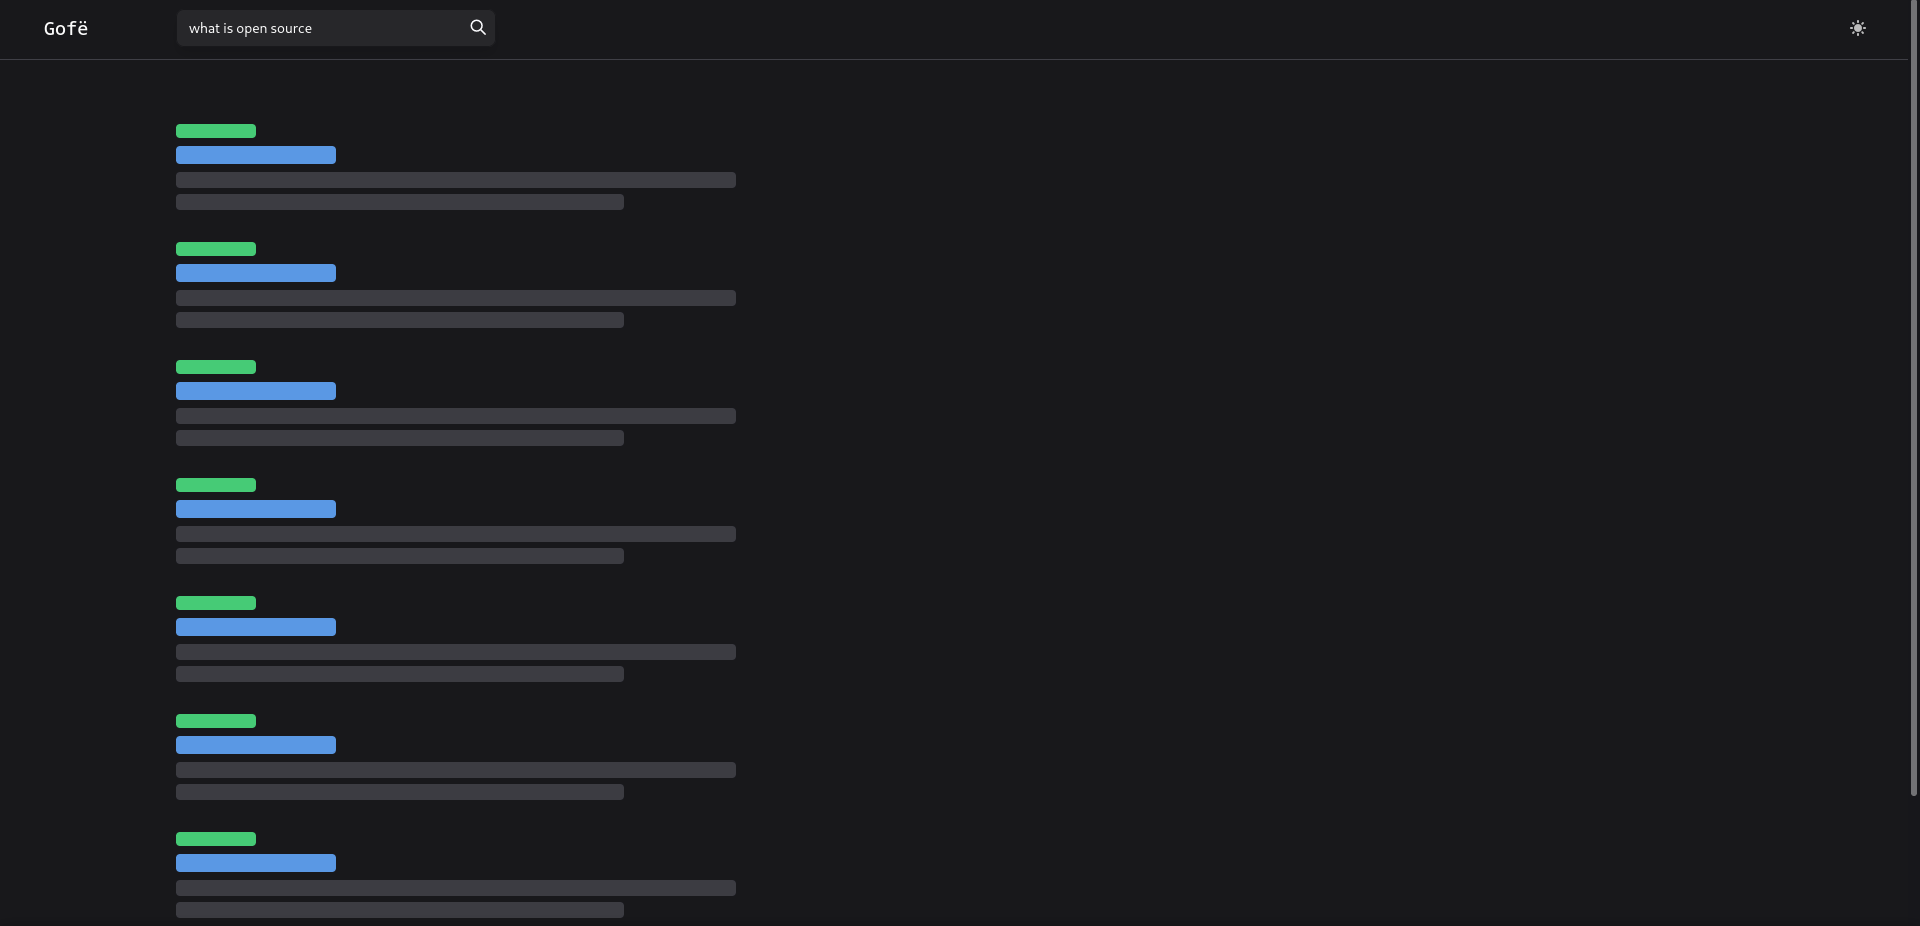
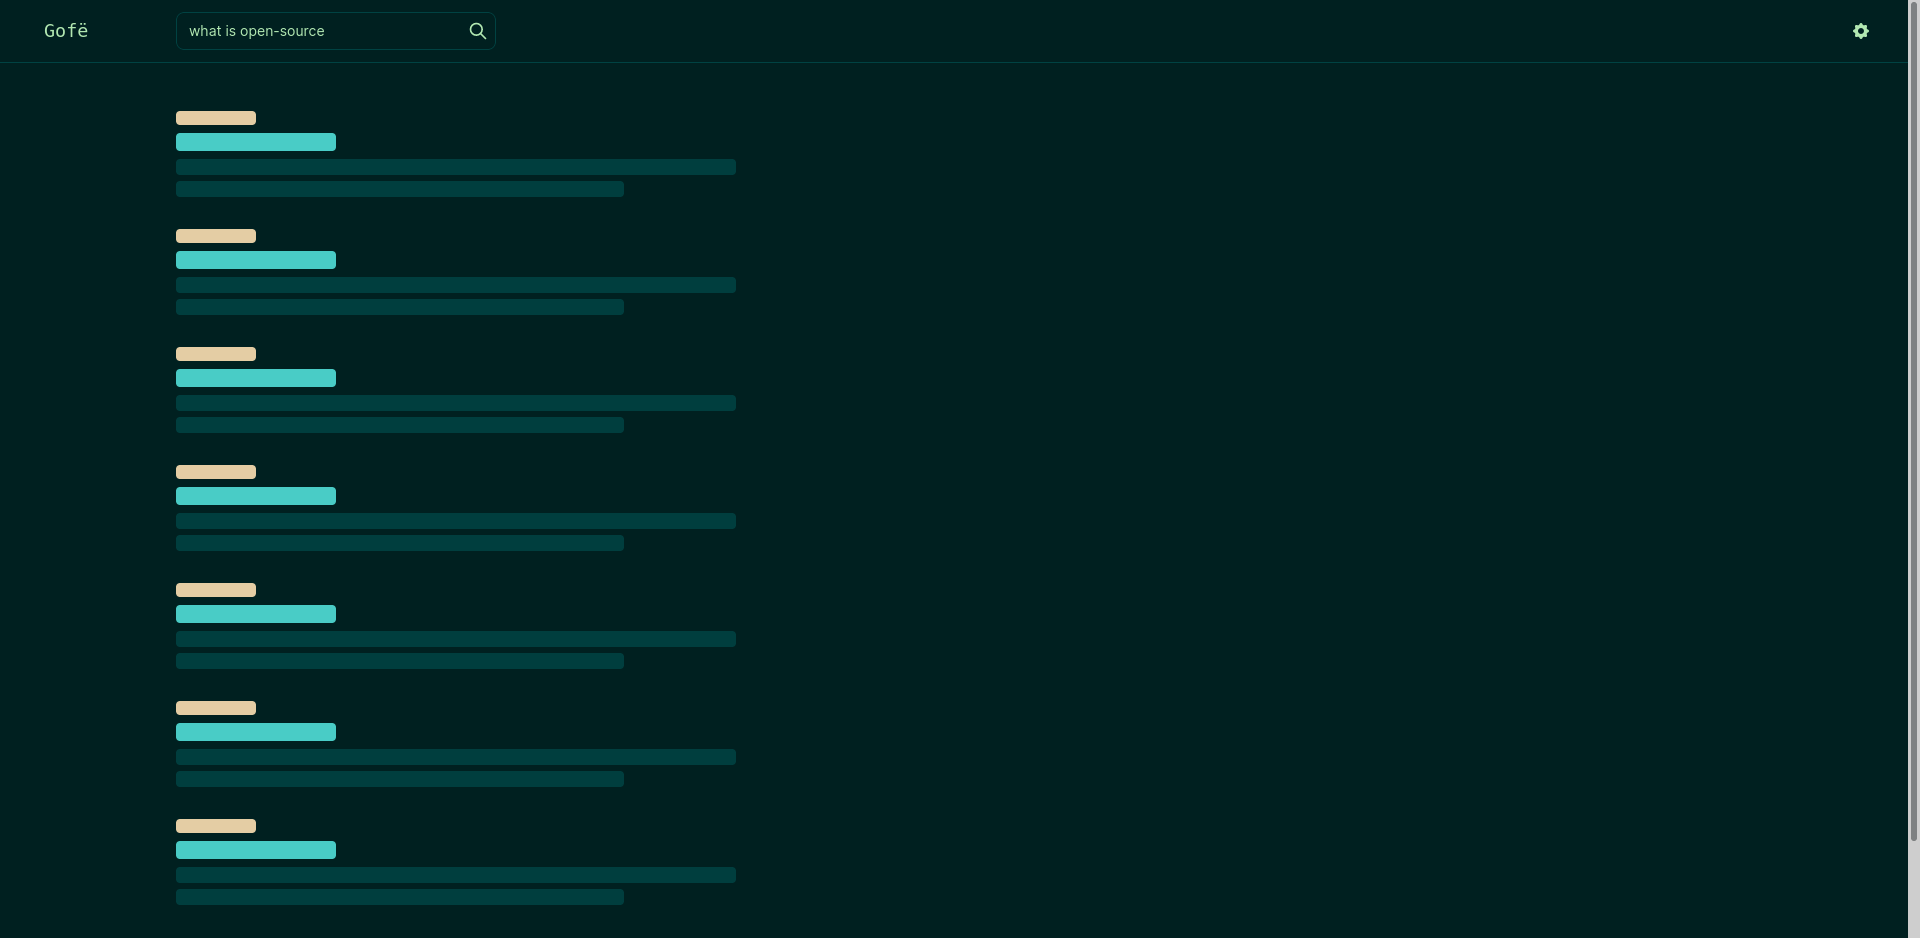
images and readme: update to reflect current UI

diff --git a/README.md b/README.md
@@ -27,9 +27,10 @@ the relevant source code can be found in `public/`.
 
 ## Screenshots
 
-|                       |                          |                           |
-|-----------------------|--------------------------|---------------------------|
-| ![](/images/home.png) | ![](/images/results.png) | ![](/images/skeleton.png) |
+|                          |                                |
+|--------------------------|--------------------------------|
+| ![](/images/home.png)    | ![](/images/results-theme.png) |
+| ![](/images/results.png) | ![](/images/skeleton.png)      |
 
 ## License
 
